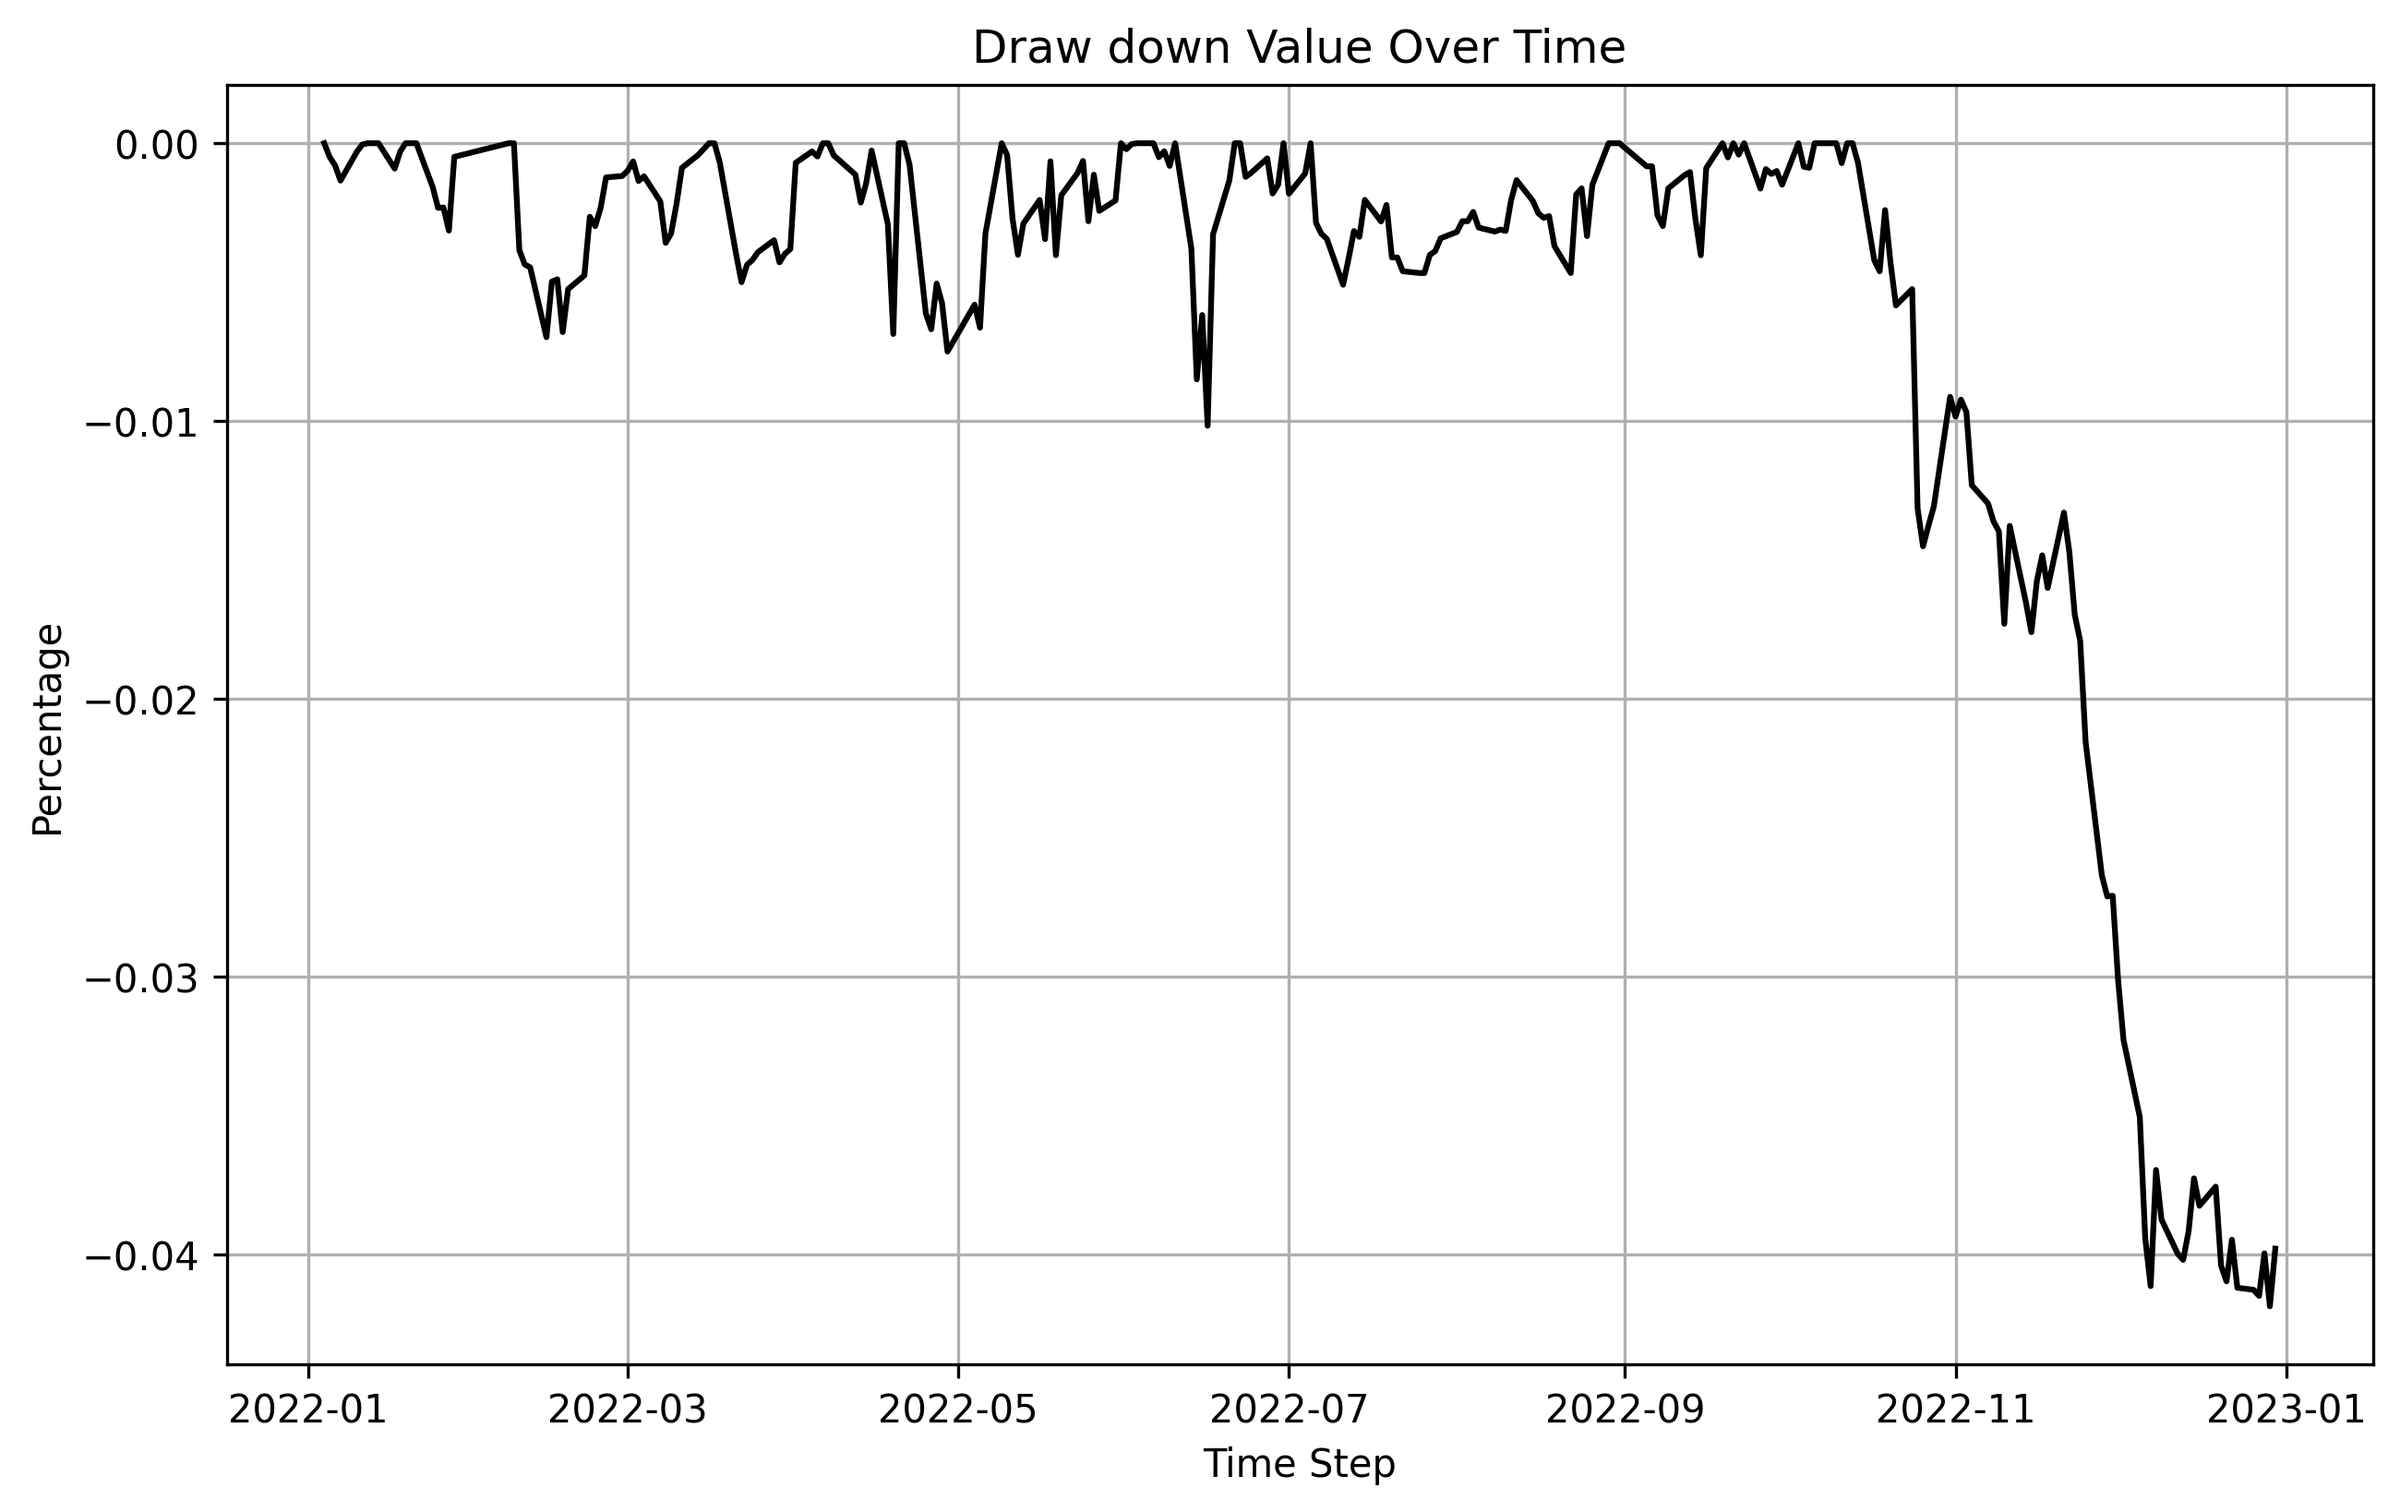
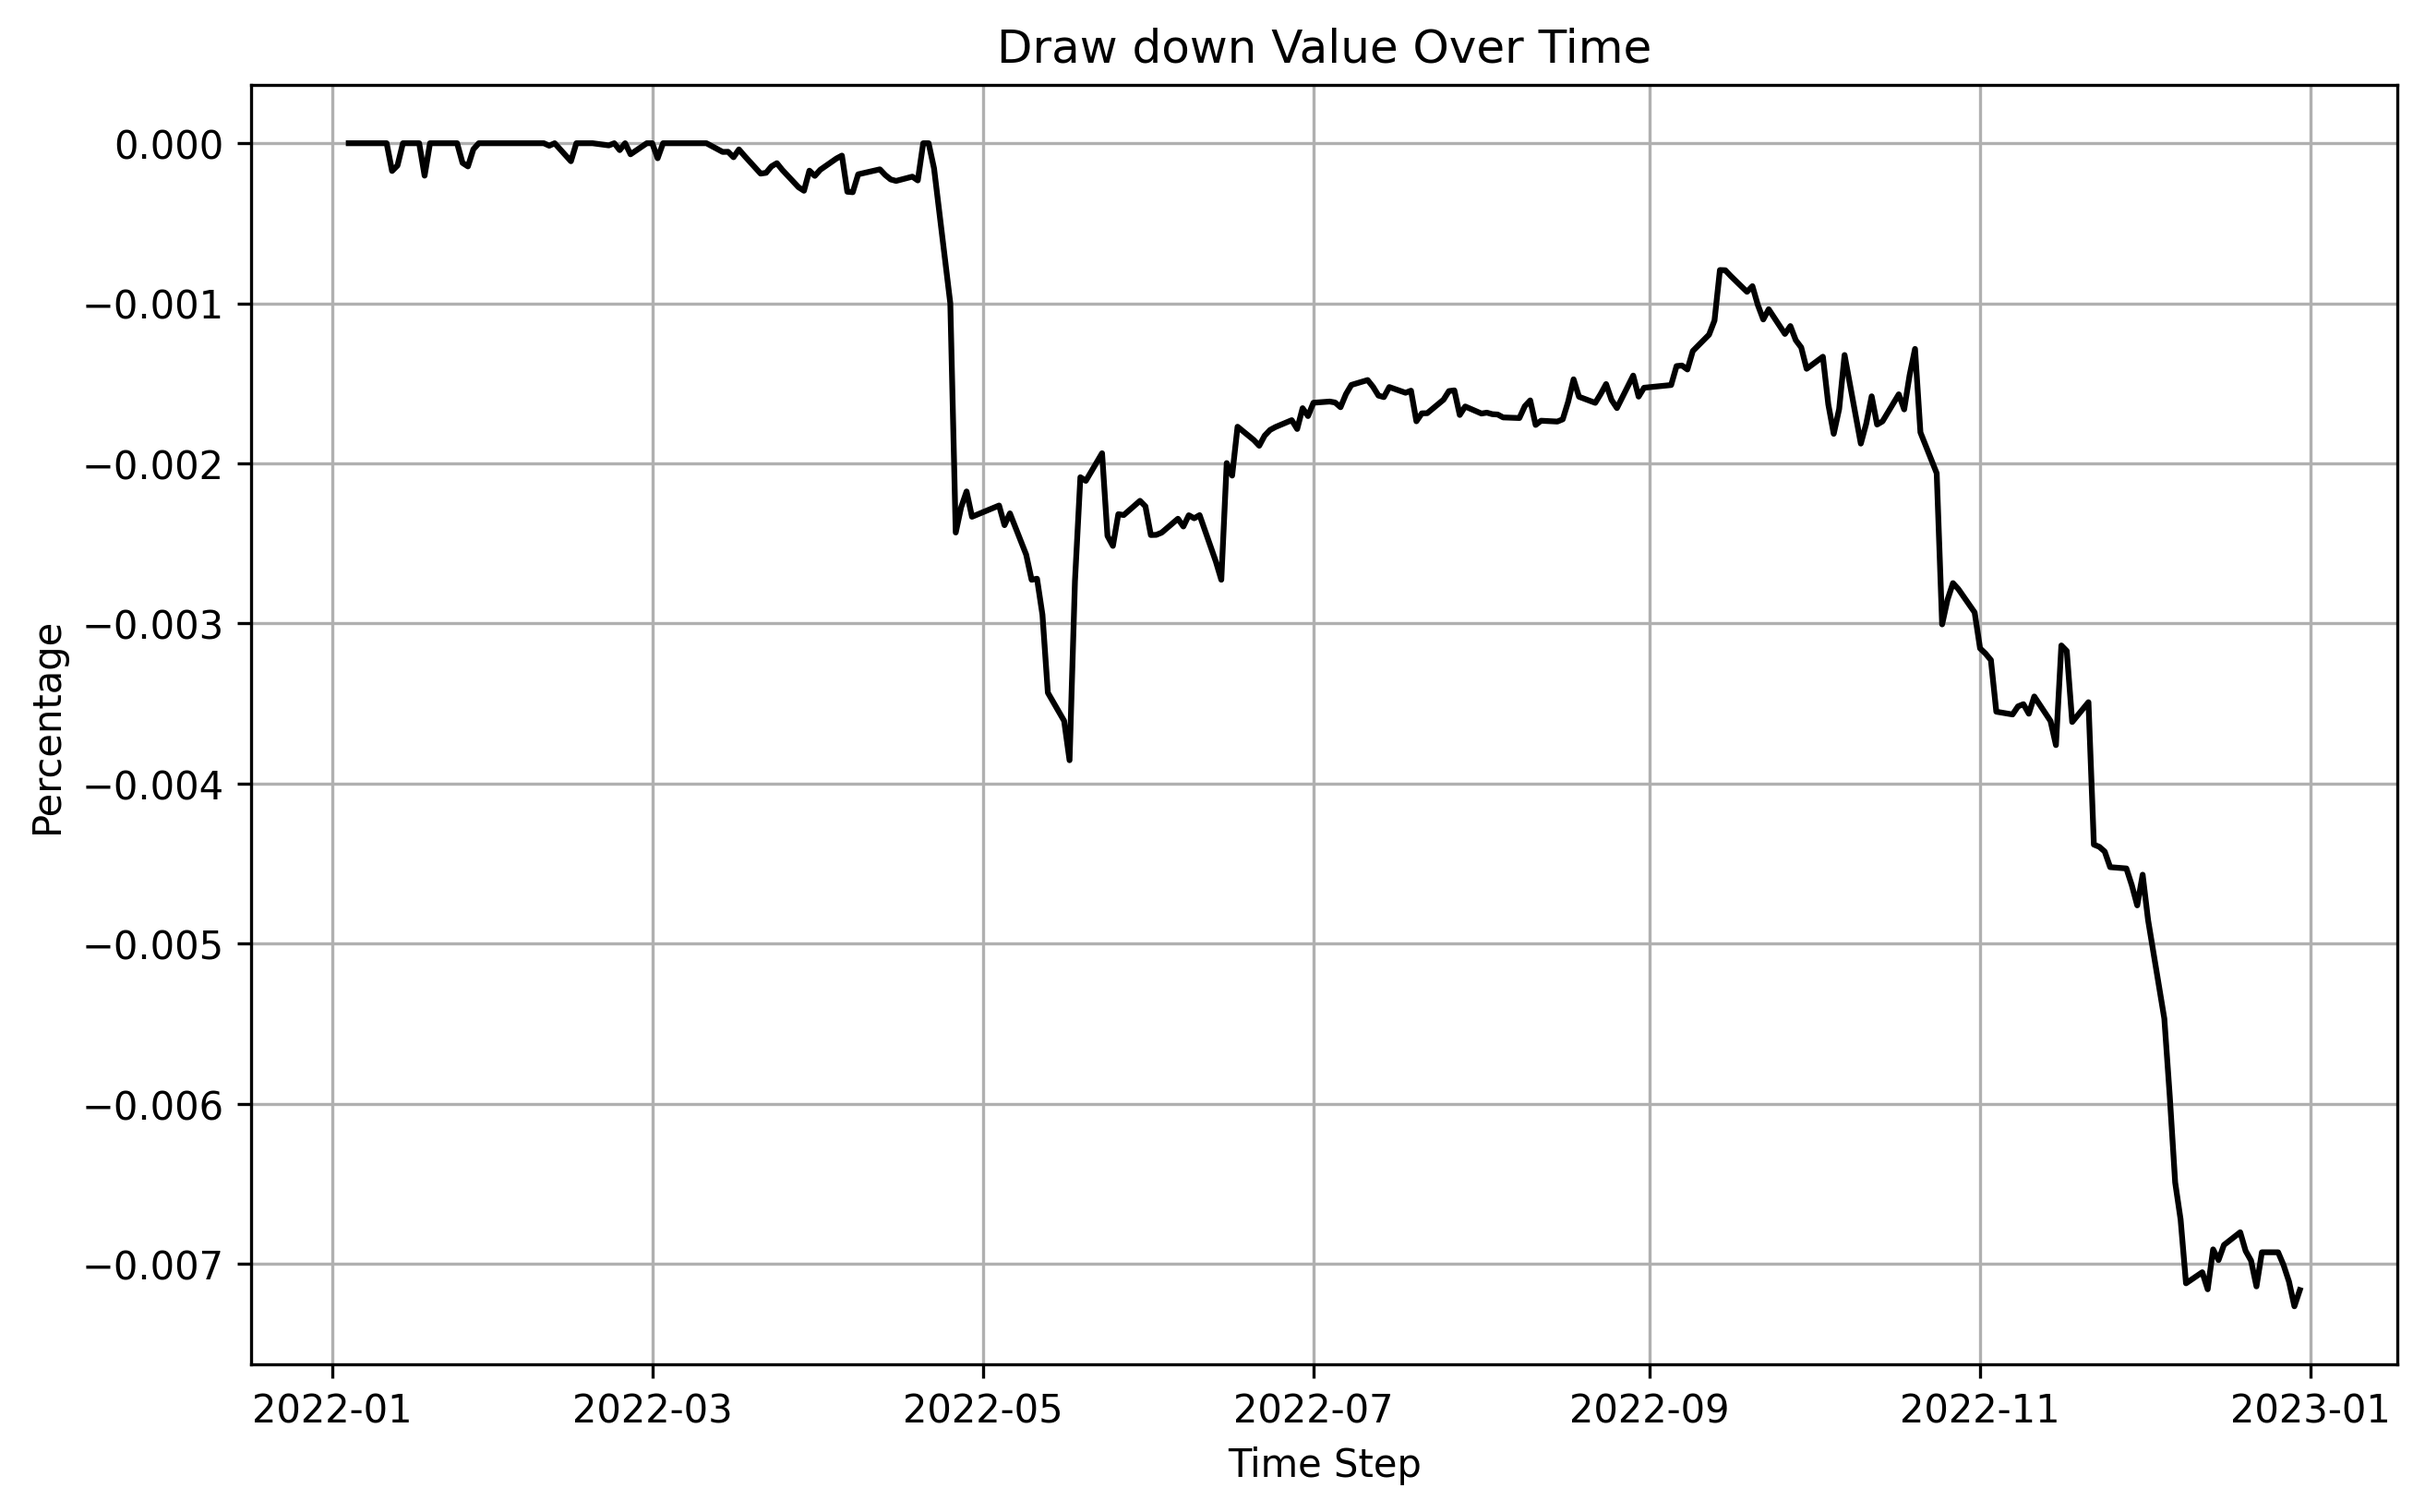
_: add time delay

diff --git a/backtesting.py b/backtesting.py
@@ -2,17 +2,22 @@
 This is main module for strategy backtesting
 """
 
+import numpy as np
+from datetime import timedelta
 from decimal import Decimal
 from typing import List
 import pandas as pd
 import matplotlib.pyplot as plt
 
+from config.config import BACKTESTING_CONFIG
 from database.data_service import DataService
 from metrics.metric import Metric
 from utils import (
     get_expired_dates,
     from_cash_to_tradeable_contracts,
 )
+
+FEE_PER_POSITION = Decimal(BACKTESTING_CONFIG["fee"]) * Decimal('100') / Decimal('2')
 
 
 class Backtesting:
@@ -40,22 +45,19 @@ class Backtesting:
         self.printable = printable
         self.data_service = DataService()
         self.metric = None
+
         self.inventory = {"BUY": 0, "SELL": 0}
         self.inventory_price = {"BUY": Decimal('0'), "SELL": Decimal('0')}
+
         self.daily_assets: List[Decimal] = [capital]
         self.daily_returns: List[Decimal] = []
-        self.ac_loss = Decimal("0.0")
         self.tracking_dates = []
+        self.daily_inventory = []
 
-        self.daily_buy = 0
-        self.daily_sell = 0
-
-        # bid-ask spread
-        self.bid_spread = Decimal("0.0")
-        self.ask_spread = Decimal("0.0")
-
+        self.old_timestamp = None
         self.bid_price = None
         self.ask_price = None
+        self.ac_loss = Decimal("0.0")
 
     def move_f1_to_f2(self, f1_price, f2_price):
         """
@@ -64,11 +66,11 @@ class Backtesting:
         if self.inventory["BUY"] != 0:
             self.ac_loss += (self.inventory_price["BUY"] - f1_price) * 100
             self.inventory_price["BUY"] = f2_price
-            self.ac_loss += Decimal('0.47') * Decimal('100') * self.inventory["BUY"]
+            self.ac_loss += FEE_PER_POSITION * self.inventory["BUY"]
         elif self.inventory["SELL"] != 0:
             self.ac_loss += (f1_price - self.inventory_price["SELL"]) * 100
             self.inventory_price["SELL"] = f2_price
-            self.ac_loss += Decimal('0.47') * Decimal('100') * self.inventory["SELL"]
+            self.ac_loss += FEE_PER_POSITION * self.inventory["SELL"]
 
     def update_pnl(self, close_price: Decimal):
         """
@@ -115,16 +117,16 @@ class Backtesting:
         while placeable_sell < 0:
             placeable_sell, placeable_buy = self.get_maximum_placeable(price)
             self.inventory["SELL"] -= 1
-            self.ac_loss += (price - self.inventory_price["SELL"]) * 100 + Decimal(
-                '0.47'
-            ) * Decimal('100') / Decimal('2')
+            self.ac_loss += (
+                price - self.inventory_price["SELL"]
+            ) * 100 + FEE_PER_POSITION
 
         while placeable_buy < 0:
             placeable_sell, placeable_buy = self.get_maximum_placeable(price)
             self.inventory["BUY"] -= 1
             self.ac_loss += (self.inventory_price["BUY"] - price) * Decimal(
                 '100'
-            ) + Decimal('0.47') * Decimal('100') / Decimal('2')
+            ) + FEE_PER_POSITION
 
     def get_maximum_placeable(self, inst_price: Decimal):
         """
@@ -160,20 +162,21 @@ class Backtesting:
         """
         placeable_sell, placeable_buy = self.get_maximum_placeable(price)
         if self.bid_price is None or self.ask_price is None:
-            return
+            return 0
 
+        matched_side = 0
         if self.bid_price >= price and self.inventory["BUY"] < placeable_buy:
             if self.inventory["SELL"] == 0:
                 self.inventory_price["BUY"] = (
                     self.inventory_price["BUY"] * self.inventory["BUY"] + price
                 ) / (self.inventory["BUY"] + 1)
                 self.inventory["BUY"] += 1
+                matched_side += 1
             else:
                 self.inventory["SELL"] -= 1
+                matched_side -= 1
                 self.ac_loss -= (self.inventory_price["SELL"] - price) * Decimal('100')
-
-            self.ac_loss += Decimal('0.47') * Decimal('100') / Decimal('2')
-            self.daily_buy += 1
+            self.ac_loss += FEE_PER_POSITION
 
         if self.ask_price <= price and self.inventory["SELL"] < placeable_sell:
             if self.inventory["BUY"] == 0:
@@ -181,23 +184,34 @@ class Backtesting:
                     self.inventory_price["SELL"] * self.inventory["SELL"] + price
                 ) / (self.inventory["SELL"] + 1)
                 self.inventory["SELL"] += 1
+                matched_side -= 1
             else:
                 self.inventory["BUY"] -= 1
+                matched_side += 1
                 self.ac_loss -= (price - self.inventory_price["BUY"]) * Decimal('100')
+            self.ac_loss += FEE_PER_POSITION
 
-            self.ac_loss += Decimal('0.47') * Decimal('100') / Decimal('2')
-            self.daily_sell += 1
+        return matched_side
 
-    def update_bid_ask(self, price: Decimal, step):
+    def update_bid_ask(self, price: Decimal, step, timestamp):
         """
         Placing bid ask formula
 
         Args:
             price (Decimal)
         """
-        self.handle_matched_order(price)
-        self.bid_price = price - step * (self.inventory["BUY"] + 1)
-        self.ask_price = price + step * (self.inventory["SELL"] + 1)
+        matched_side = self.handle_matched_order(price)
+
+        if self.old_timestamp is None or timestamp > self.old_timestamp + timedelta(
+            seconds=int(BACKTESTING_CONFIG["time"])
+        ):
+            self.old_timestamp = timestamp
+            self.bid_price = price - step * Decimal(self.inventory["BUY"] + 1)
+            self.ask_price = price + step * Decimal(self.inventory["SELL"] + 1)
+        elif matched_side > 0:
+            self.bid_price = price - step * Decimal(self.inventory["BUY"] + 1)
+        elif matched_side < 0:
+            self.ask_price = price + step * Decimal(self.inventory["SELL"] + 1)
 
     def process_data(self, evaluation=False):
         prefix_path = "data/os/" if evaluation else "data/is/"
@@ -260,7 +274,9 @@ class Backtesting:
                 moving_to_f2 = True
 
             self.handle_force_sell(row["f2_price"] if moving_to_f2 else row["price"])
-            self.update_bid_ask(row["f2_price"] if moving_to_f2 else row["price"], step)
+            self.update_bid_ask(
+                row["f2_price"] if moving_to_f2 else row["price"], step, row["datetime"]
+            )
 
             if index == len(data) - 1 or row["date"] != data.iloc[index + 1]["date"]:
                 cur_index += 1
@@ -270,8 +286,15 @@ class Backtesting:
                         f"Realized asset {row['date']}: {int(self.daily_assets[-1] * Decimal('100'))} VND"
                     )
                 moving_to_f2 = False
-                self.tracking_dates.append(row["date"])
                 self.ac_loss = Decimal("0.0")
+                self.bid_price = None
+                self.ask_price = None
+                self.old_timestamp = None
+
+                self.tracking_dates.append(row["date"])
+                self.daily_inventory.append(
+                    self.inventory["BUY"] - self.inventory["SELL"]
+                )
 
         self.metric = Metric(self.daily_returns, None)
 
@@ -321,19 +344,35 @@ class Backtesting:
         plt.grid(True)
         plt.savefig(path, dpi=300, bbox_inches='tight')
 
+    def plot_inventory(self, path="result/backtest/inventory.png"):
+        plt.figure(figsize=(10, 6))
+        plt.plot(
+            self.tracking_dates,
+            self.daily_inventory,
+            label="Portfolio",
+            color='black',
+        )
+
+        plt.title('Inventory Value Over Time')
+        plt.xlabel('Time Step')
+        plt.grid(True)
+        plt.tight_layout()
+        plt.savefig(path, dpi=300, bbox_inches='tight')
+
 
 if __name__ == "__main__":
-    import time
-
     bt = Backtesting(
-        capital=Decimal("1e6"),
+        capital=Decimal("1.5e7"),
     )
 
     data = bt.process_data()
-    bt.run(data, Decimal("1.2"))
-    bt.plot_nav()
-    bt.plot_drawdown()
+    bt.run(data, Decimal("0.8"))
+
     print(f"Sharpe ratio: {bt.metric.sharpe_ratio(risk_free_return=Decimal('0.03'))}")
     print(f"Sortino ratio: {bt.metric.sortino_ratio(risk_free_return=Decimal('0.03'))}")
     mdd, _ = bt.metric.maximum_drawdown()
     print(f"Maximum drawdown: {mdd}")
+
+    bt.plot_nav()
+    bt.plot_drawdown()
+    bt.plot_inventory()
